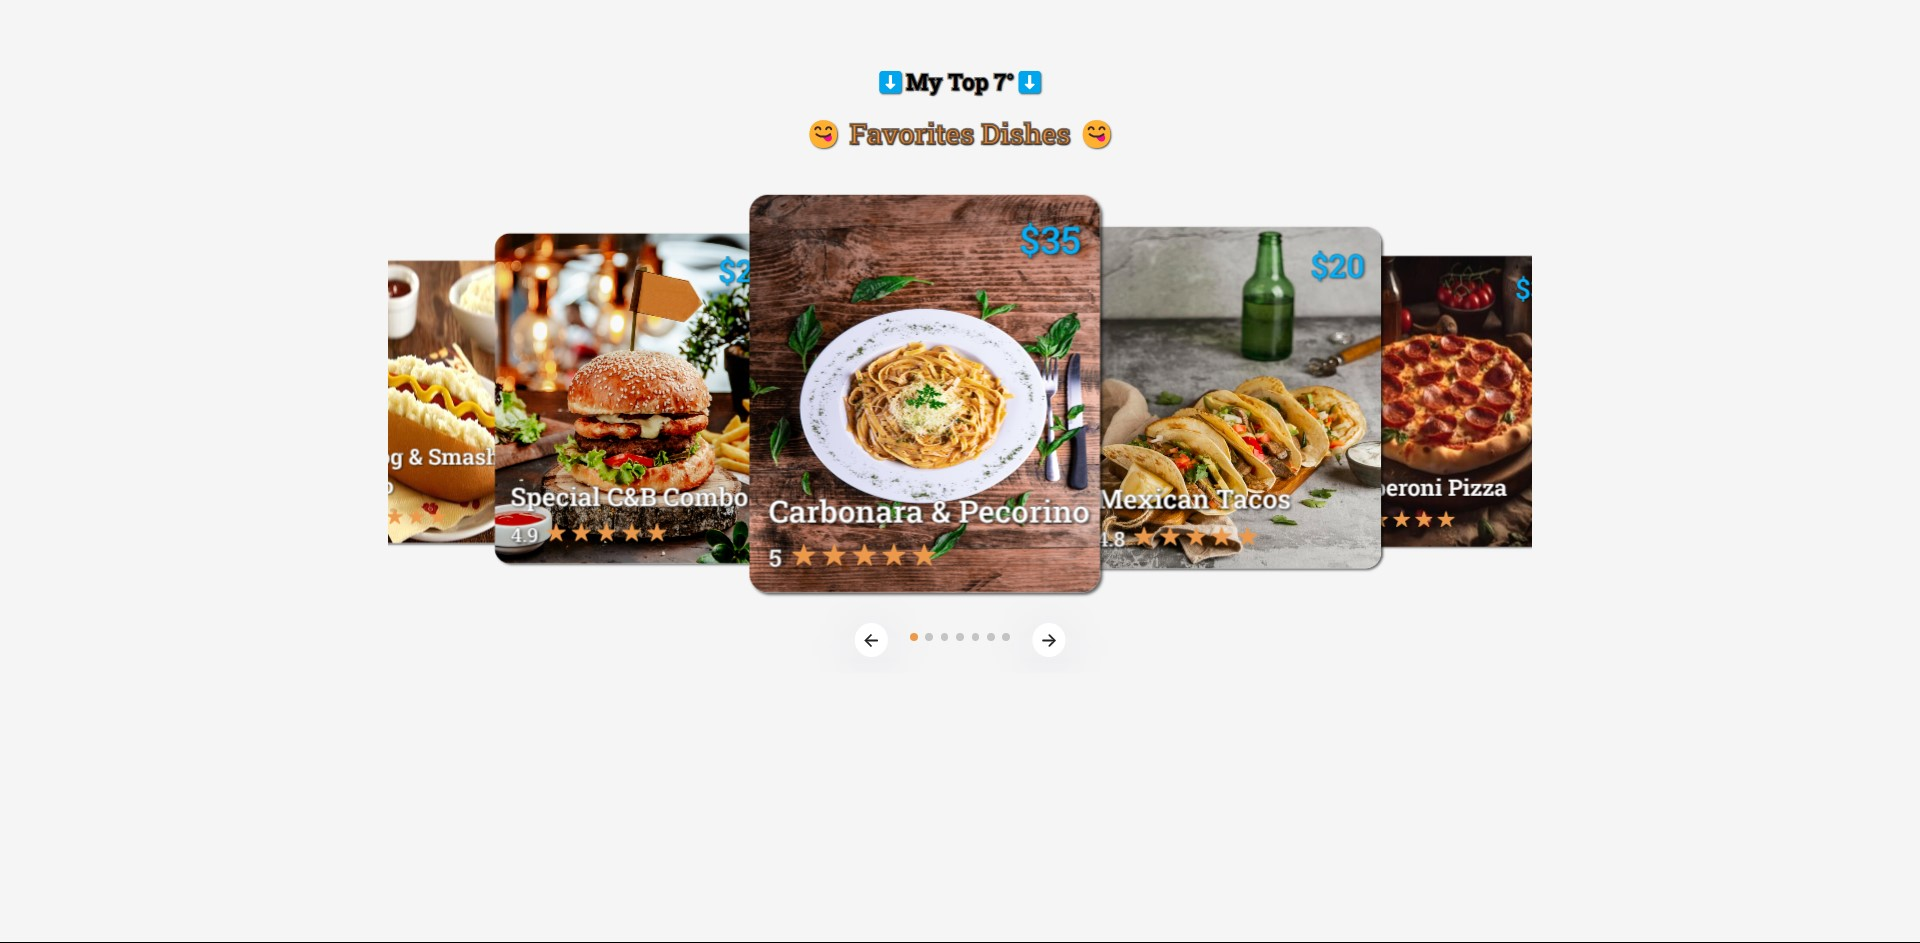
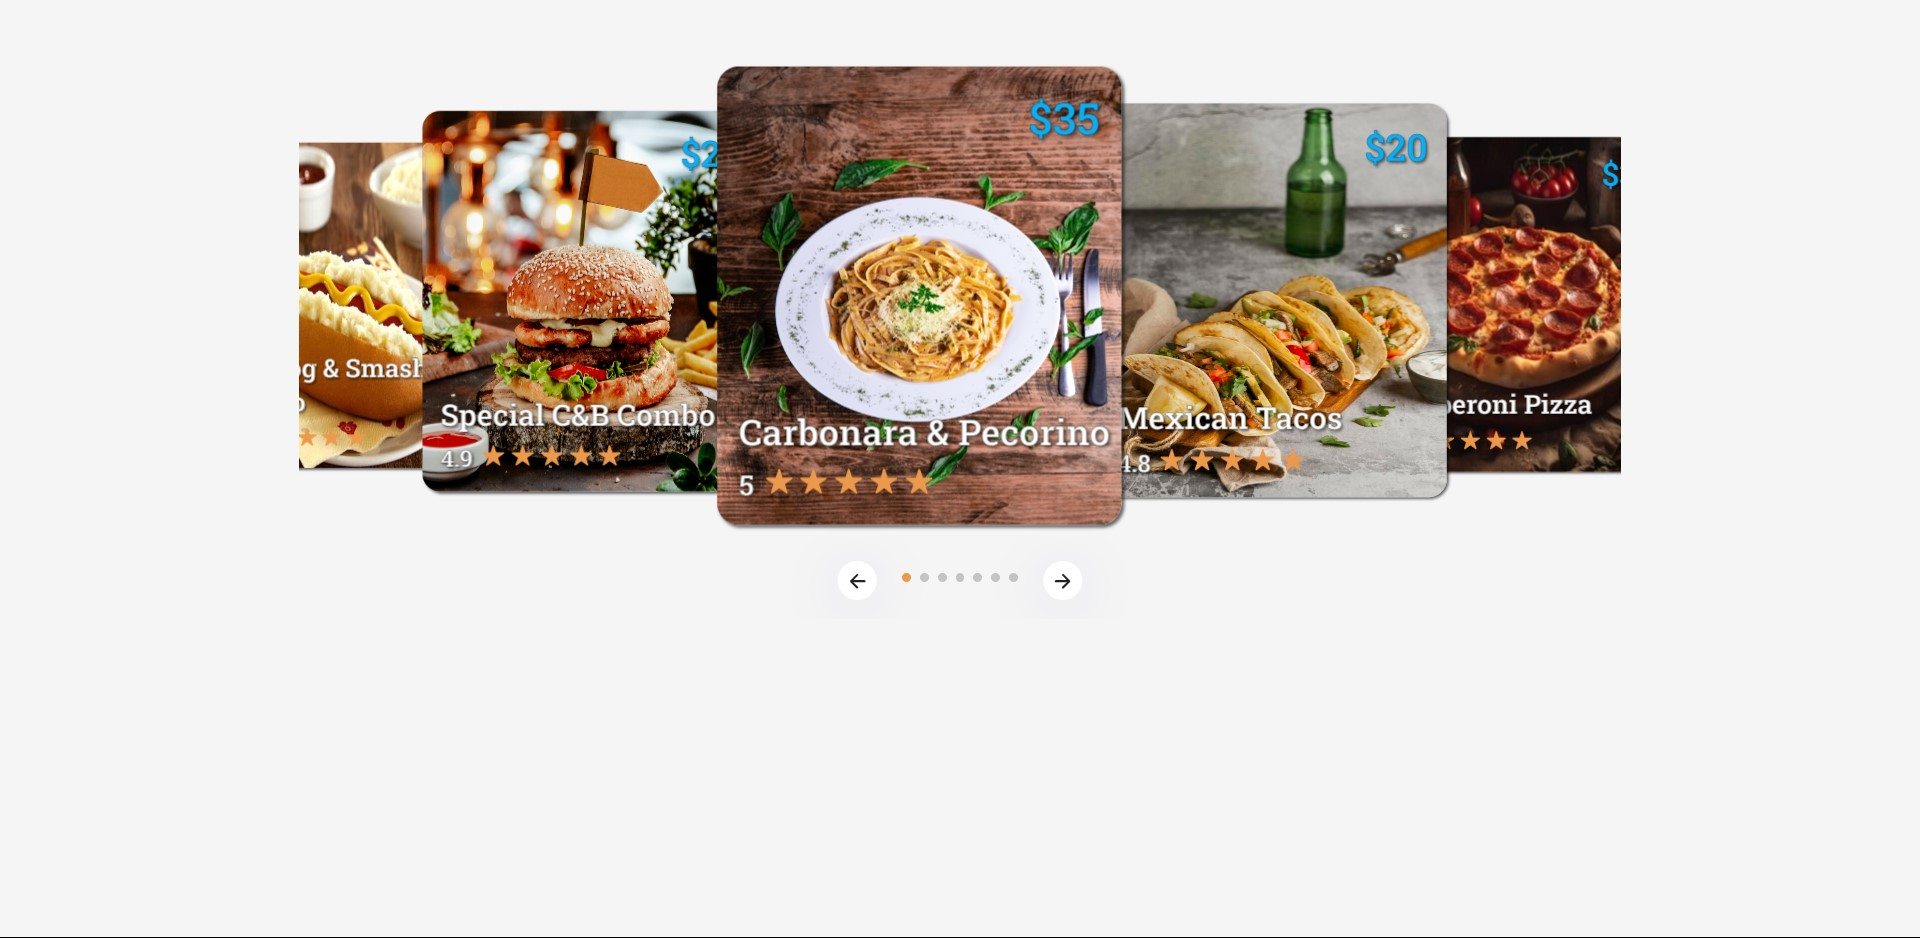
261º dia de CTD - README + CSS + IMG.

diff --git a/assets/css/style.css b/assets/css/style.css
@@ -245,6 +245,7 @@ body {
   position: relative;
   width: 15rem;
   bottom: 1rem;
+  right: 13rem;
 }
 
 .tranding-slider-control .swiper-pagination .swiper-pagination-bullet {

diff --git a/README.md b/README.md
@@ -4,13 +4,9 @@
 
 ![](./assets/img/f1.jpg)
 
-![](./assets/img/f2.jpg)
-
-![](./assets/img/f3.jpg)
-
 Deploy: https://carrosel-slider-rho.vercel.app/
 
-Youtube: https://youtu.be/cTXZNAnHpdc?si=oPsgezsYD22mniH0
+Youtube: https://youtu.be/4P00_R_XIeQ?si=mZQShKv_VoX0PLwY
 
 ## Sobre
 
